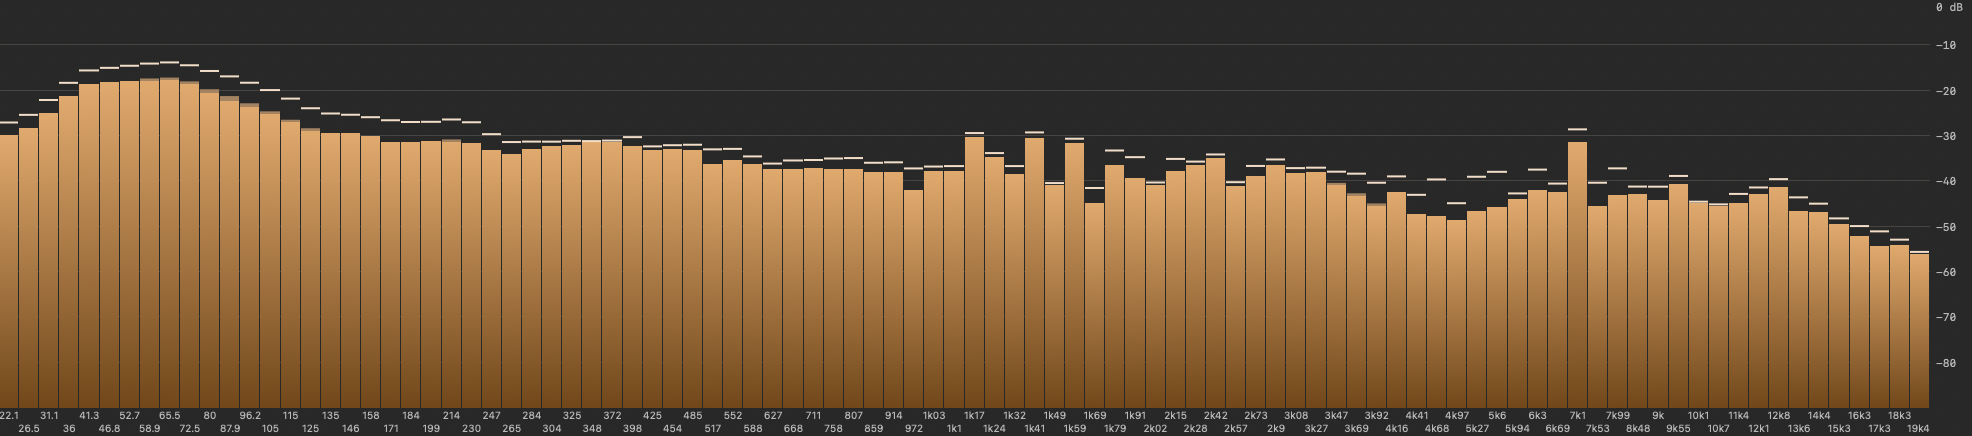
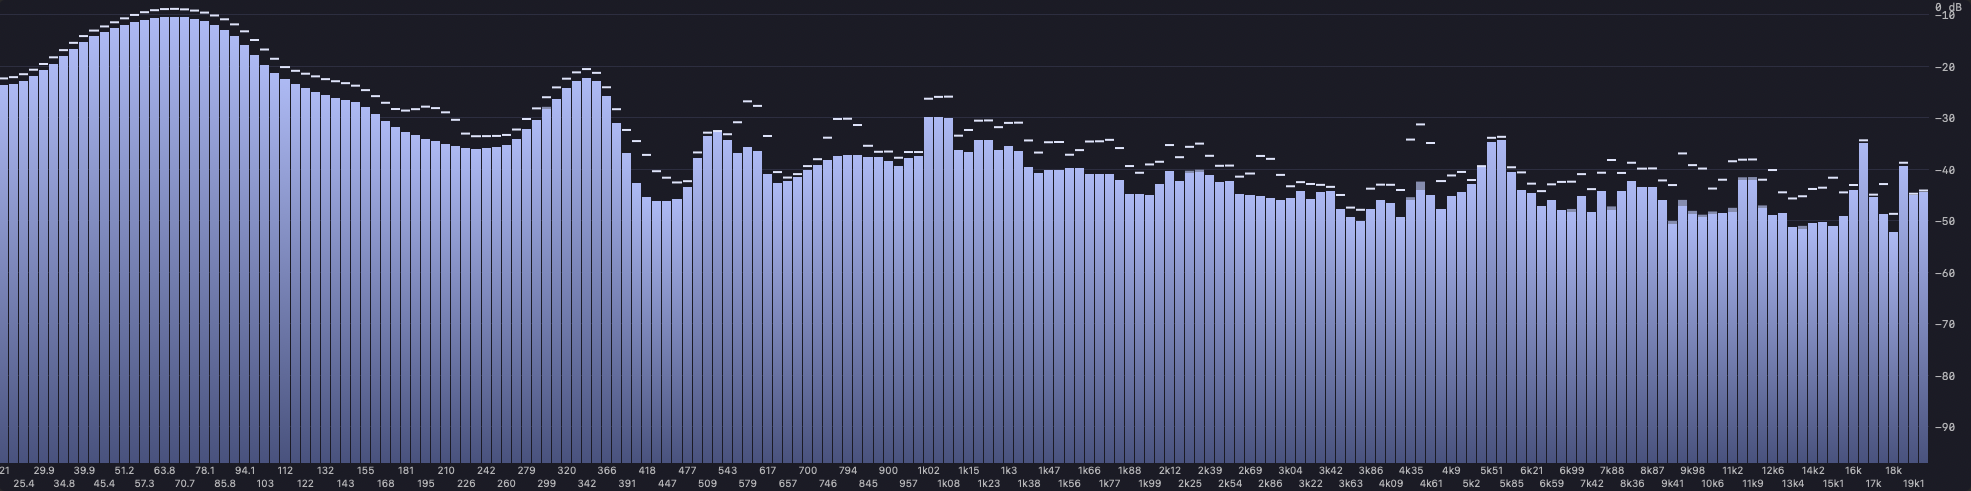
docs(spectrum): new README screenshots
Curve, bars and dense-bars crops of the analyzer panel (the dense-bars
image is new in the README's Spectrum section) and a new preferences
page screenshot.

diff --git a/README.md b/README.md
@@ -81,7 +81,7 @@ Real-time spectrum analyzer panel, running its own FFT on the audio from foobar2
 
 | Curve and bars | Settings |
 |----------------|----------|
-| ![Spectrum Analyzer in curve mode with color bars](docs/images/spectrum-curve.png)<br>![Spectrum Analyzer in bars mode](docs/images/spectrum-bars.png) | ![Spectrum Settings](docs/images/spectrum-settings.png) |
+| ![Spectrum Analyzer in curve mode with color bars](docs/images/spectrum-curve.png)<br>![Spectrum Analyzer in bars mode](docs/images/spectrum-bars.png)<br>![Spectrum Analyzer in bars mode with dense bars](docs/images/spectrum-bars-dense.png) | ![Spectrum Settings](docs/images/spectrum-settings.png) |
 
 **Features:**
 - Curve or bars, horizontal or vertical, edge to edge in the panel
